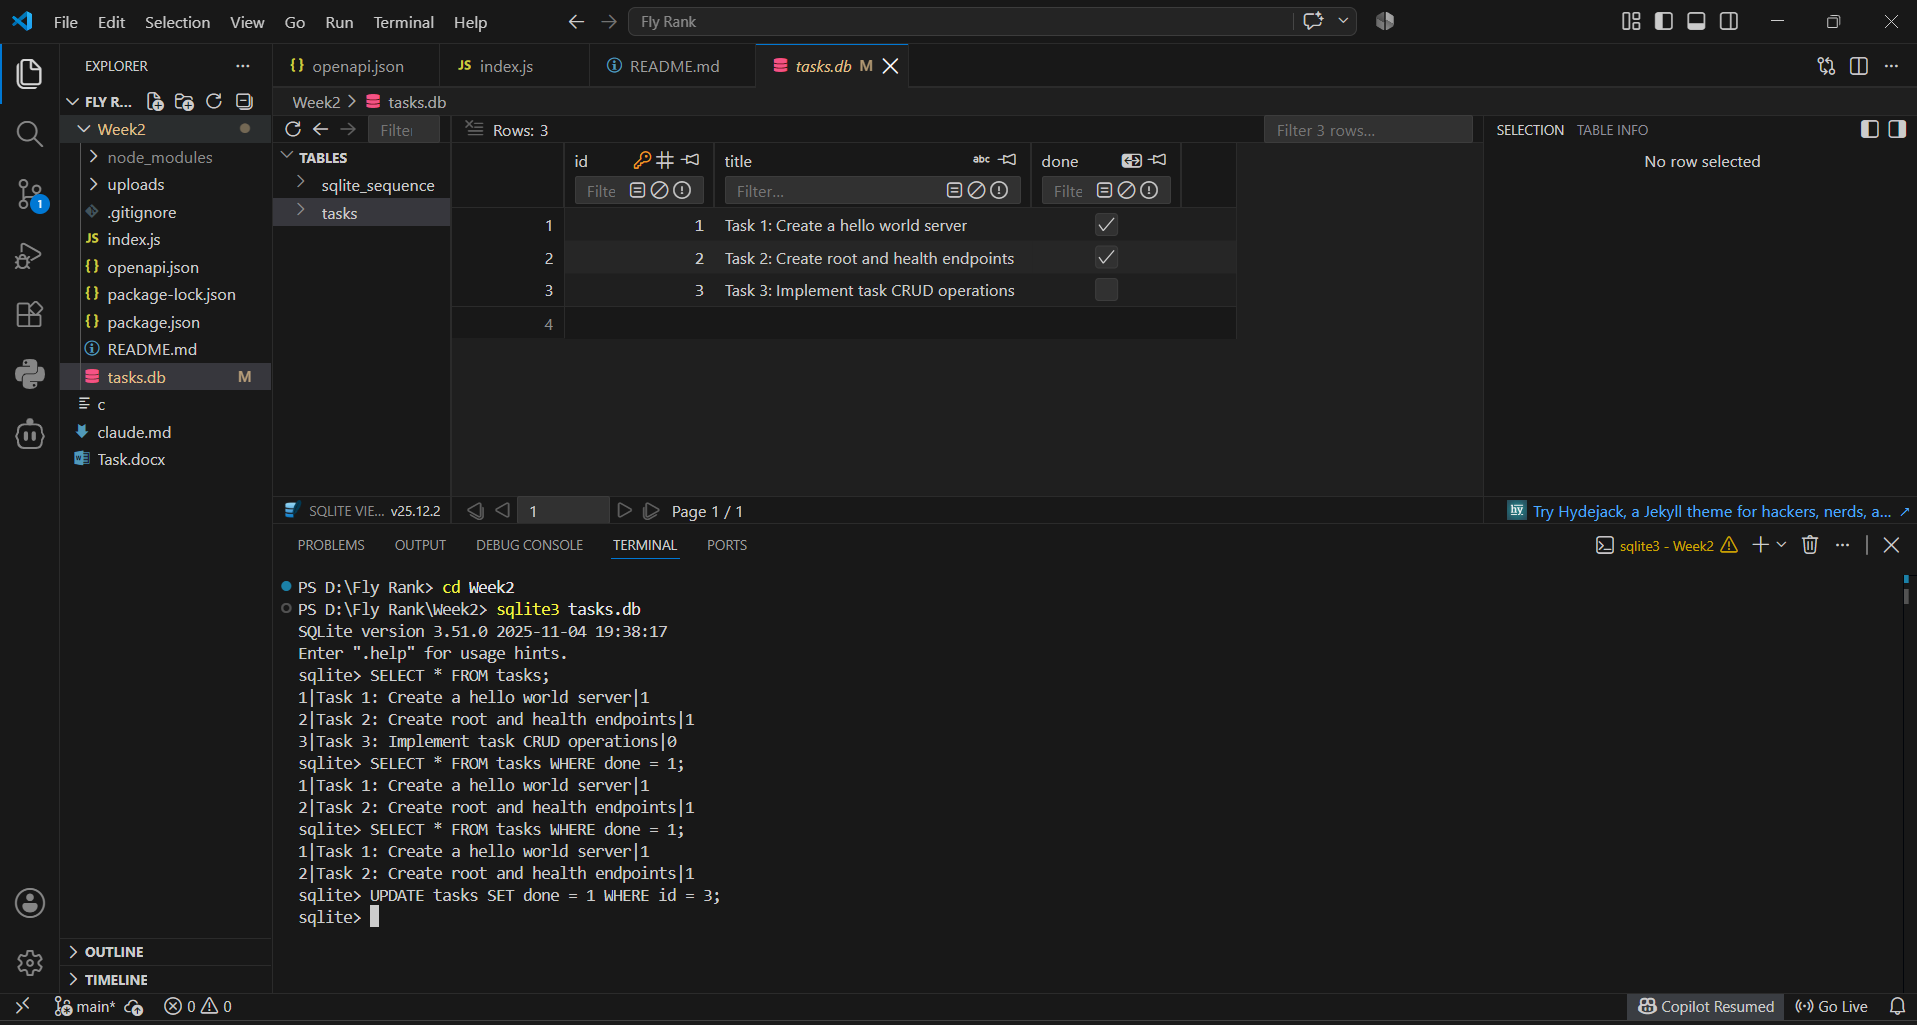
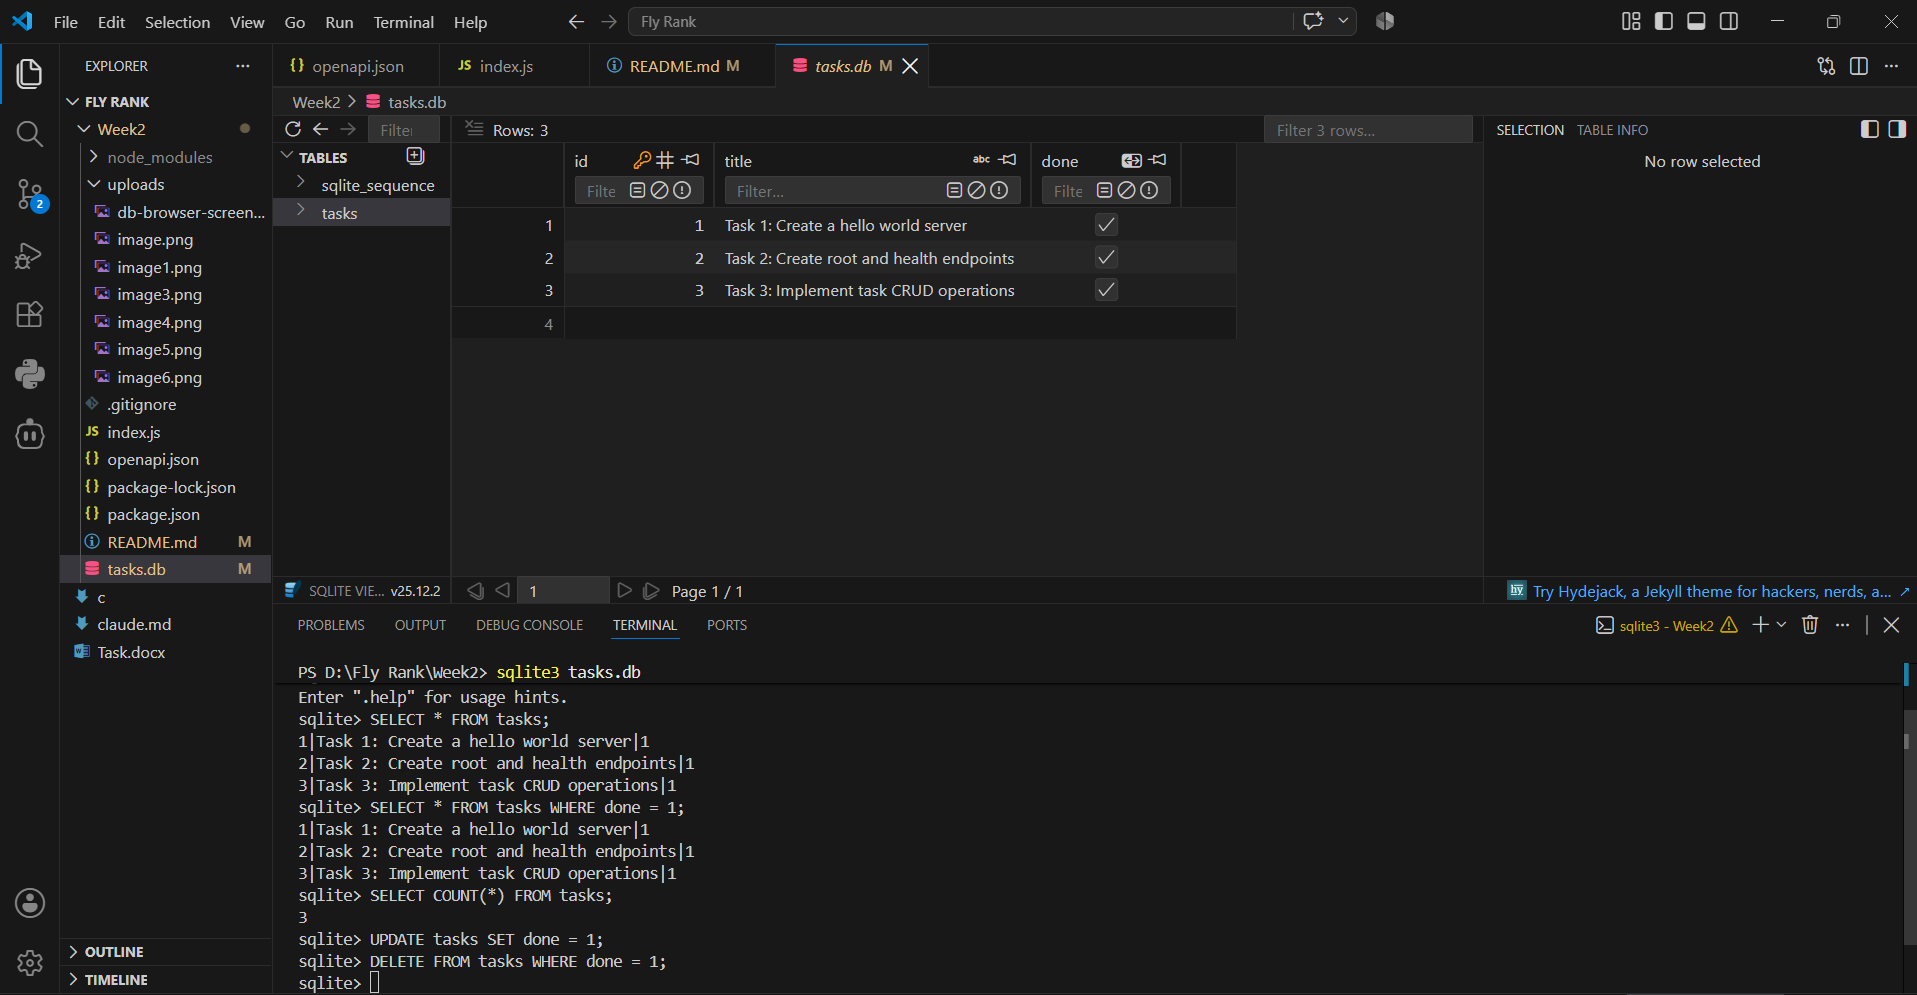
Stage 4: explored SQLite

diff --git a/README.md b/README.md
@@ -350,3 +350,27 @@ Stage 3: Update and delete with SQL
     2. Run `git commit -m "Stage 3: update and delete with SQL"`
     3. Run `git push origin main` to push your local git to github.
 
+
+
+
+Stage 4: Explored SQLite
+
+1. Write the code
+    1. Open `tasks.db` using DB Browser for SQLite (or VS Code SQLite extension)
+    2. Execute standard manual SQL queries directly against the database file:
+       - `SELECT * FROM tasks;`
+       - `SELECT * FROM tasks WHERE done = 1;`
+       - `SELECT COUNT(*) FROM tasks;`
+       - `UPDATE tasks SET done = 1;`
+       - `DELETE FROM tasks WHERE done = 1;`
+
+2. Test
+    1. Perform a manual update query in DB Browser for SQLite (e.g., `UPDATE tasks SET done = 1;`)
+    2. Run `curl -i http://localhost:3000/tasks` in your terminal
+    3. Verify that the API immediately reflects the direct database changes
+
+3. Push to github
+    1. Run `git add .` to add all changes to git
+    2. Run `git commit -m "Stage 4: explored SQLite"`
+    3. Run `git push origin main` to push your local git to github.
+
